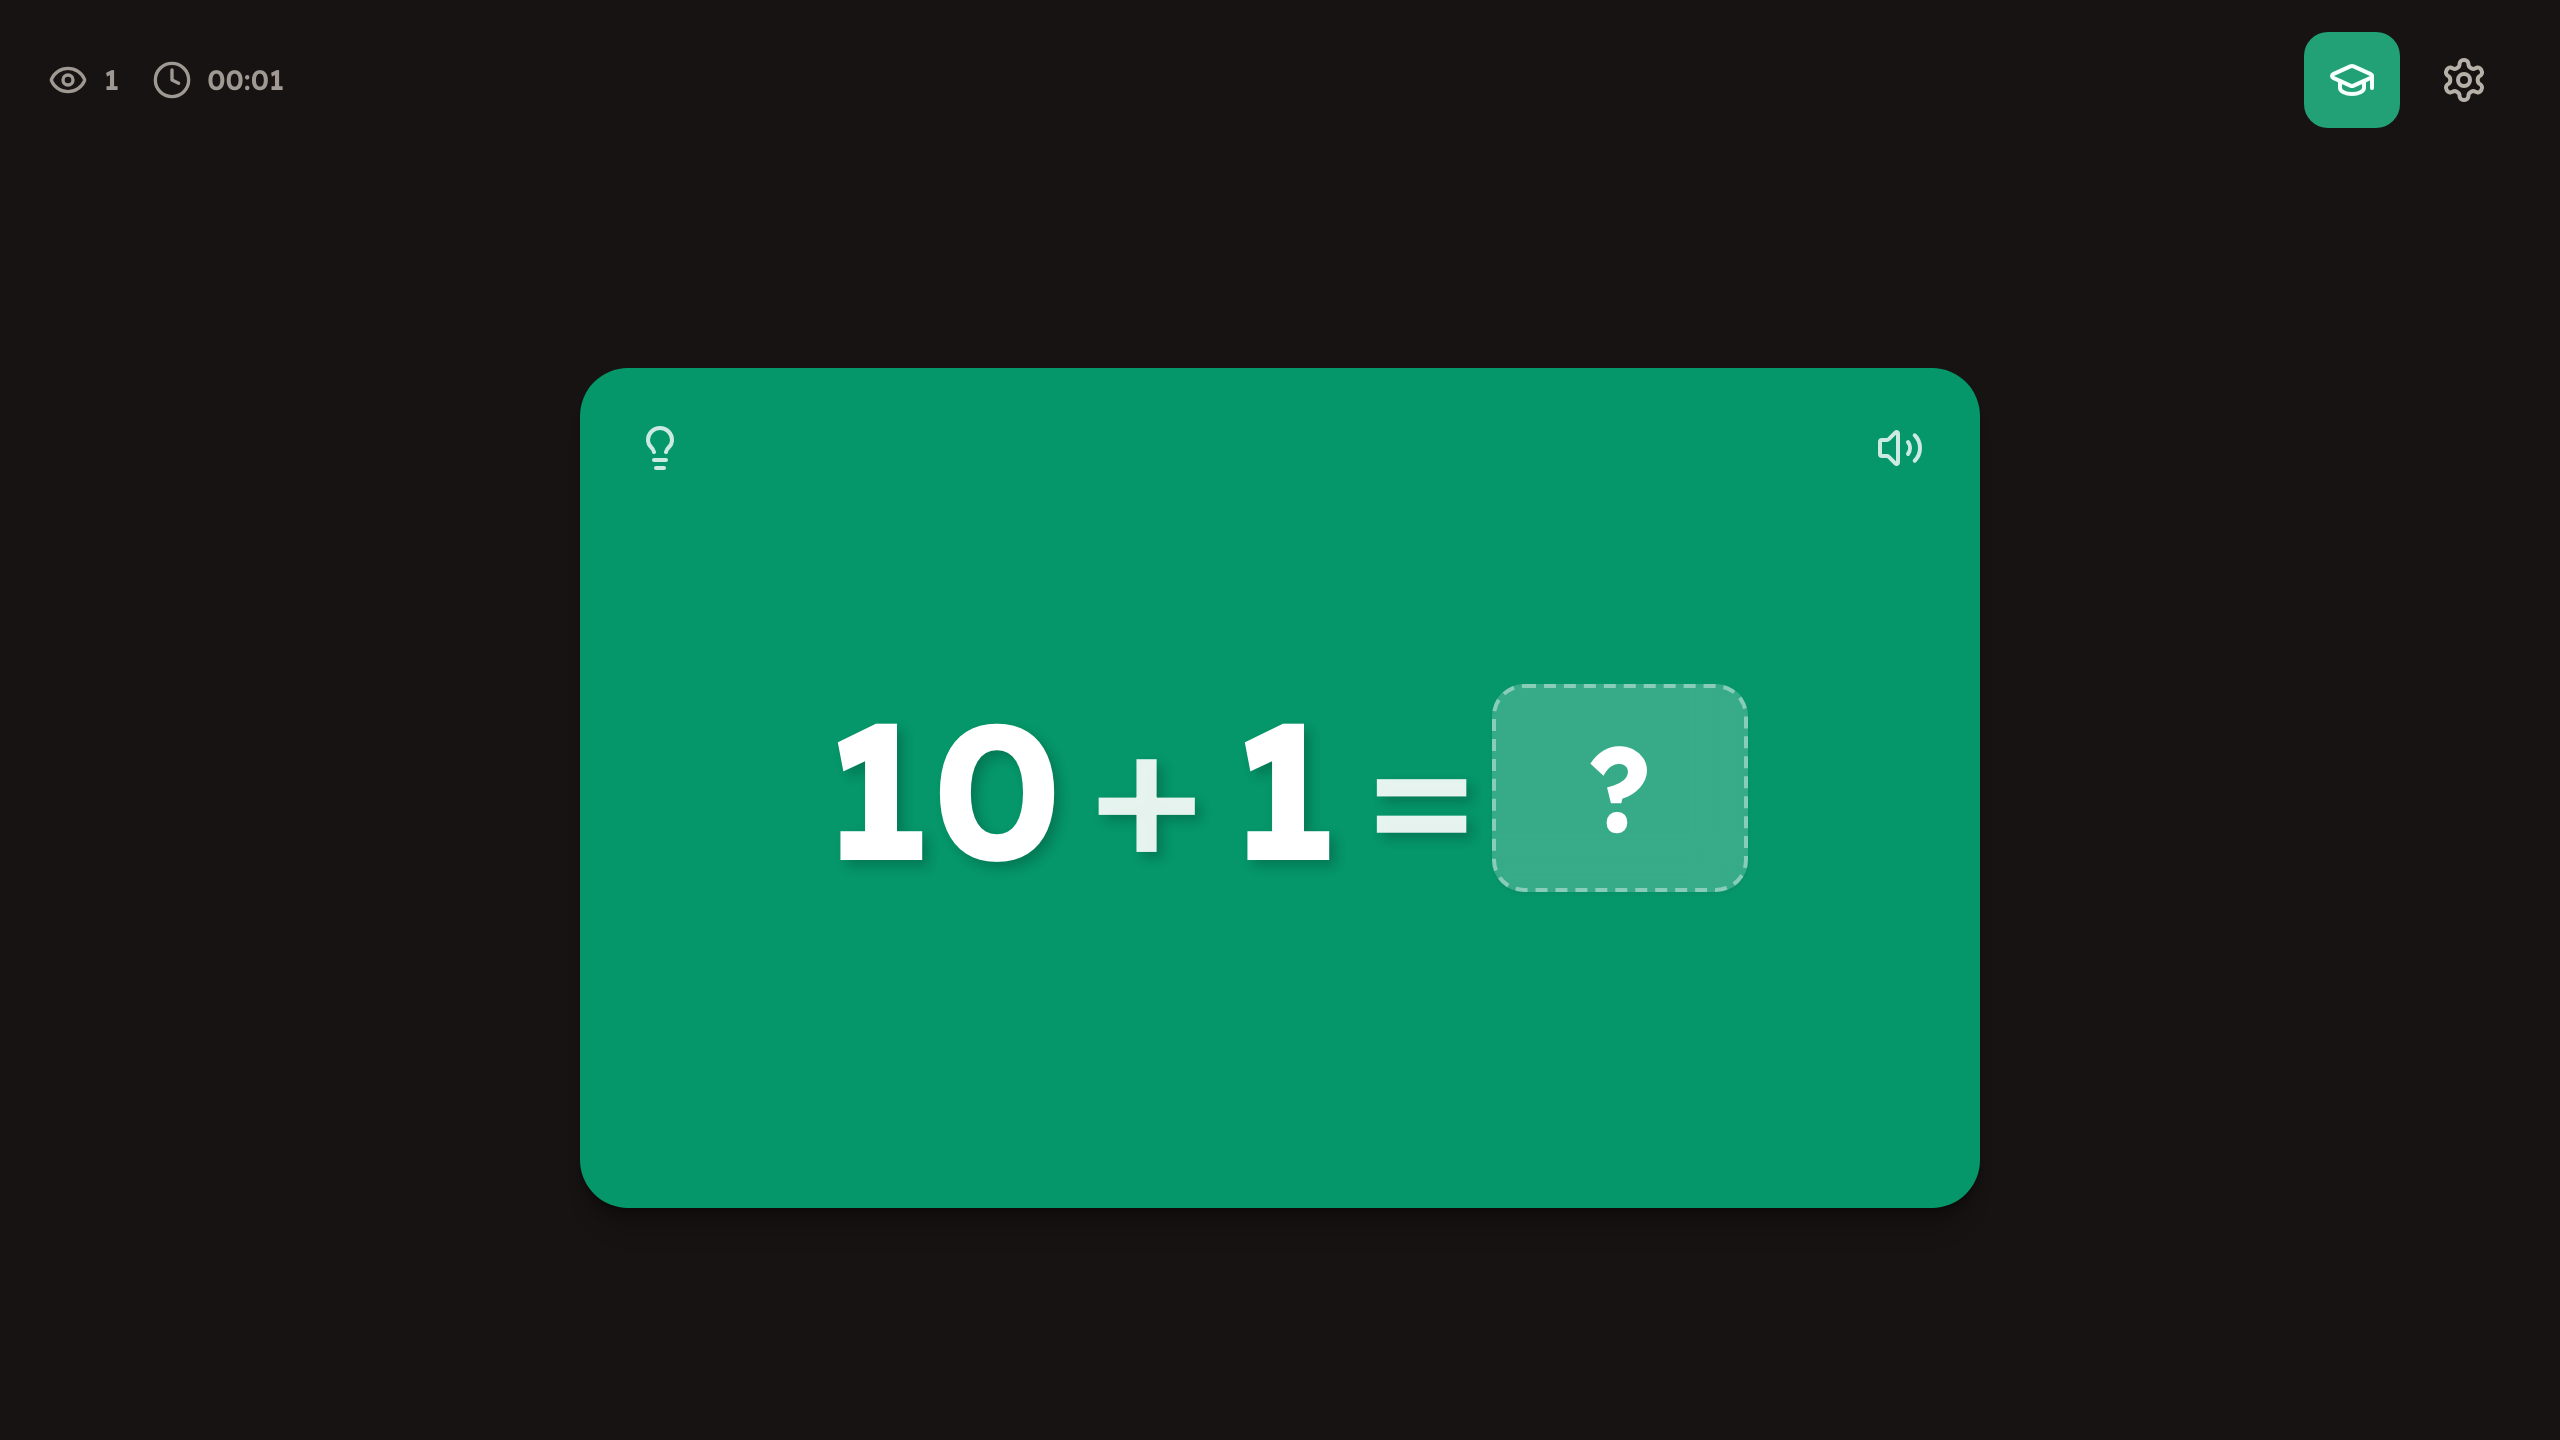
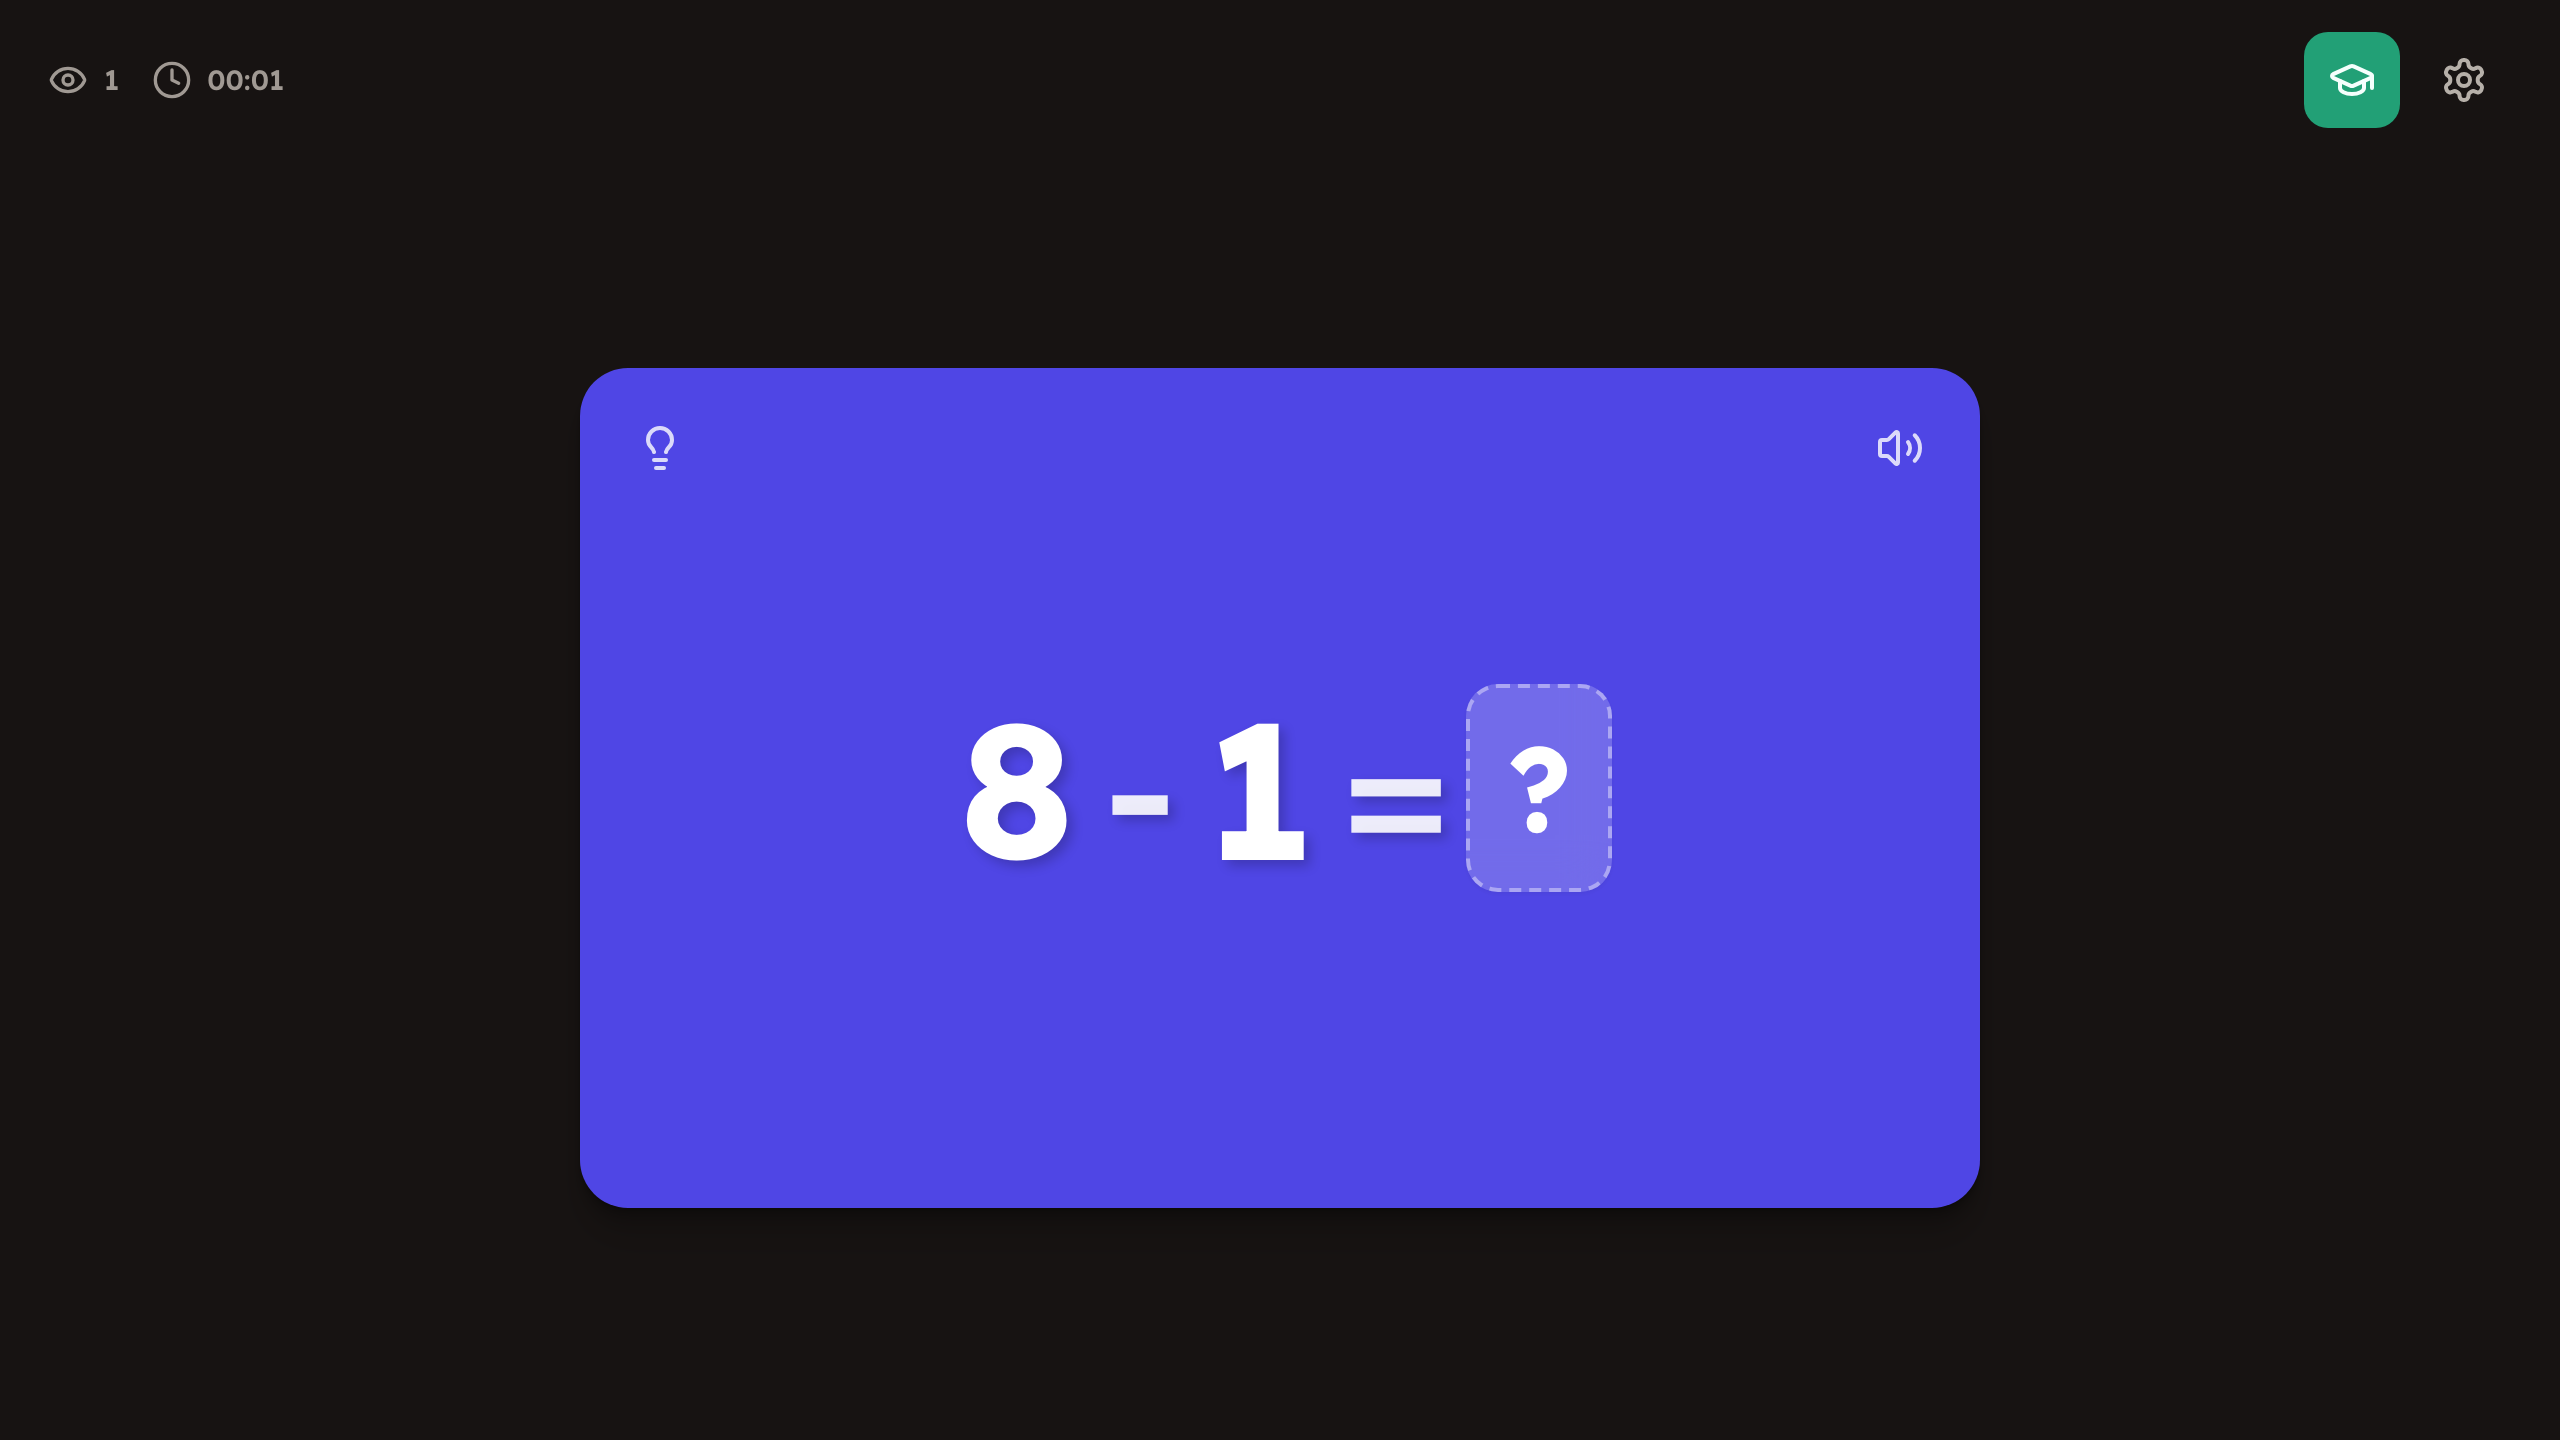
fix(landing-page): capture actual revealed calculation steps for Geometry Deck Step Reveal

diff --git a/scripts/generate-landing-screenshots.ts b/scripts/generate-landing-screenshots.ts
@@ -313,10 +313,10 @@ async function generateLandingScreenshots() {
   await page.goto('http://localhost:9004');
   await page.waitForSelector('main');
   await page.waitForTimeout(500);
-  const flipBtn = page.locator("button[aria-label='Flip Card'], button[aria-label='Show Solution']").first();
-  if (await flipBtn.isVisible()) {
-    await flipBtn.click();
-    await page.waitForTimeout(500);
+  const cardLight = page.locator('main > div').first();
+  if (await cardLight.isVisible()) {
+    await cardLight.click();
+    await advanceToLastStep(page);
   }
   await clearFocus(page);
   await page.screenshot({ path: path.join(geometryDir, 'landscape-2-card-back.png') });
@@ -330,7 +330,14 @@ async function generateLandingScreenshots() {
     localStorage.setItem('geometry-deck-topics', JSON.stringify(['triangles']));
     localStorage.setItem('geometry-deck-card-types', JSON.stringify(['calculation']));
   });
-  await page.waitForTimeout(300);
+  await page.goto('http://localhost:9004');
+  await page.waitForSelector('main');
+  await page.waitForTimeout(500);
+  const cardDark = page.locator('main > div').first();
+  if (await cardDark.isVisible()) {
+    await cardDark.click();
+    await advanceToLastStep(page);
+  }
   await clearFocus(page);
   await page.screenshot({ path: path.join(geometryDir, 'landscape-2-card-back-dark.png') });
   console.log('Saved: geometry/landscape-2-card-back-dark.png');
